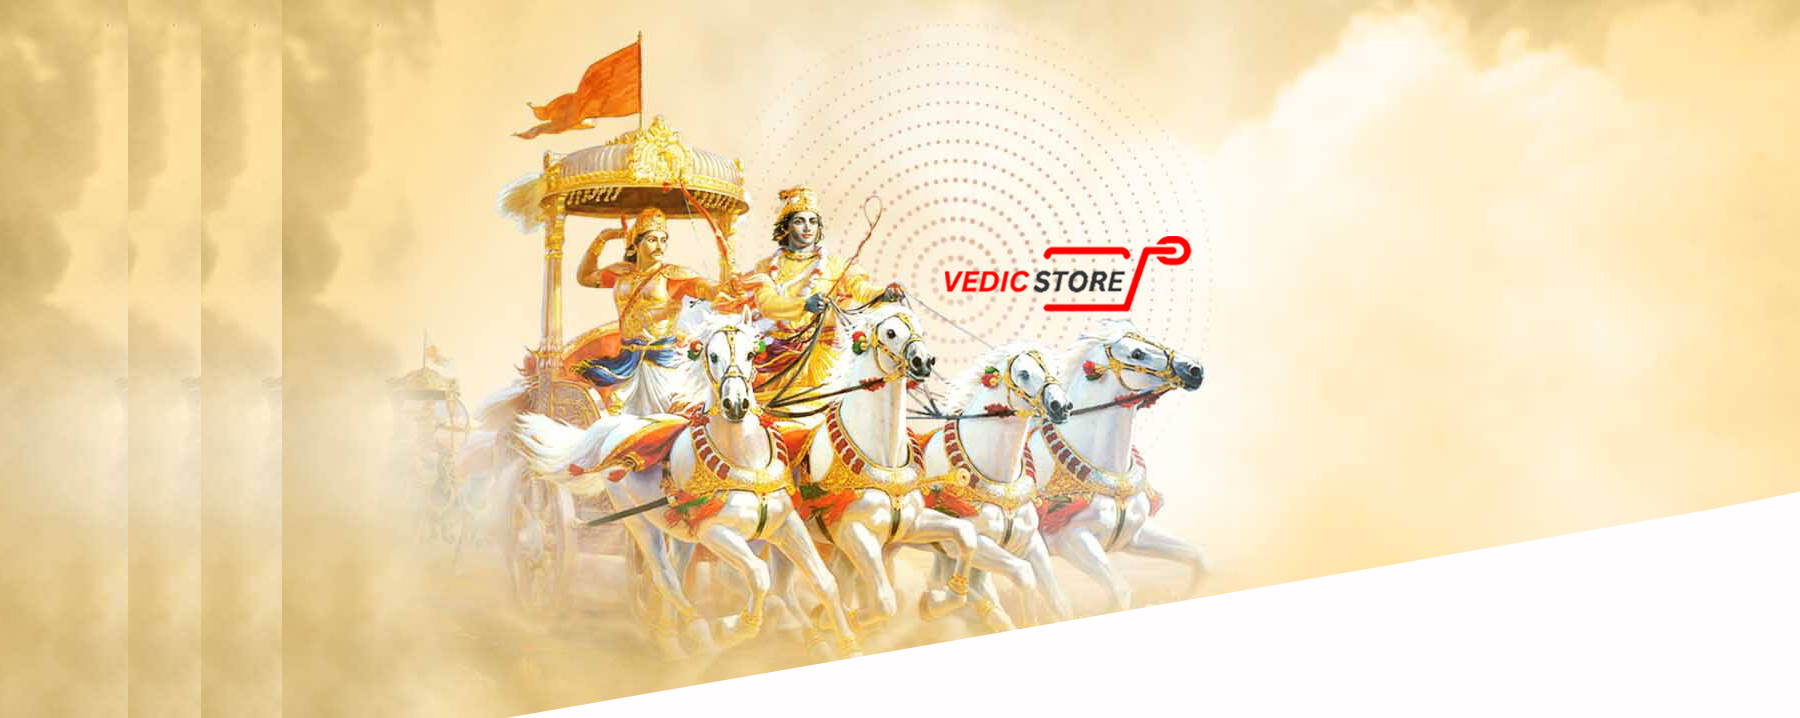
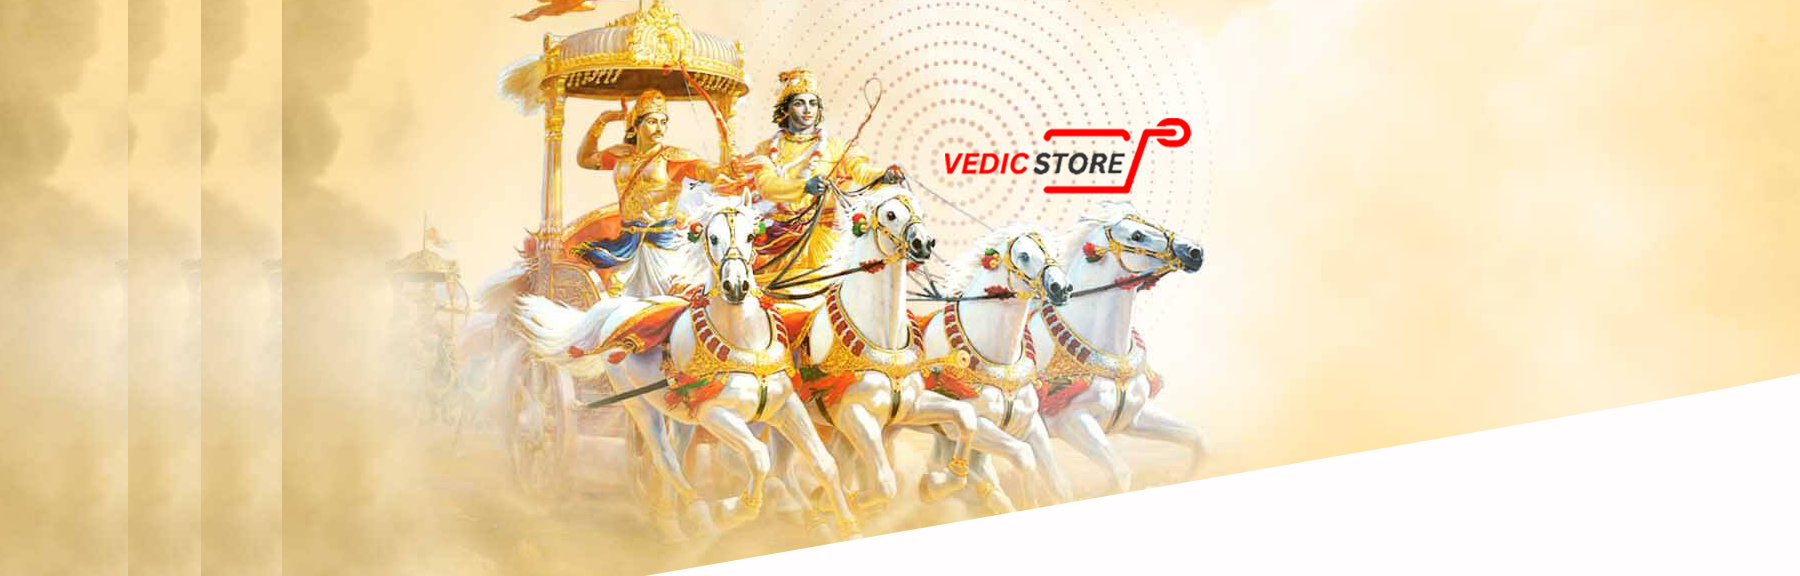
Did changes in navbar styling

diff --git a/client/src/components/layout/Navbar/Navbar.jsx b/client/src/components/layout/Navbar/Navbar.jsx
@@ -29,7 +29,7 @@ export default function Navbar() {
     return (
         <>
             <nav className="navbar">
-                {isAuthenticated && <UserOptions user={user} />}
+                {/* {isAuthenticated && <UserOptions user={user} />} */}
                 <div className="max-width">
                     <div className="logo">
                         <Link to="/"> <img src="./whitelogo.png" className='brandLogo' alt="" /> </Link>
@@ -46,7 +46,9 @@ export default function Navbar() {
                         <li onClick={burger}><Link to="/contact" className="menu-btn">Contact</Link></li>
                         <li onClick={burger}><Link to="/cart" className="menu-btn"><i class="fa-solid fa-cart-shopping"></i> Cart</Link></li>
                         <li onClick={burger}><Link to="/account" className="menu-btn"><i class="fa-solid fa-user"></i> Account</Link></li>
+                        {isAuthenticated && <UserOptions user={user} burger={burger} />}
                     </ul>
+
                     <div className="menu-btn">
                         <i className="fas fa-bars" onClick={burger}> </i>
                     </div>

diff --git a/client/src/components/layout/home/BannerSlider/BannerSlider.jsx b/client/src/components/layout/home/BannerSlider/BannerSlider.jsx
@@ -1,17 +1,20 @@
 import React from 'react'
 import { Carousel } from 'react-responsive-carousel';
 import "react-responsive-carousel/lib/styles/carousel.min.css";
+import './bannerSlider.css'
 
 export default function BannerSlider() {
+
     return (
         <>
             <Carousel
-             axis='horizontal'
-             autoPlay={true}
-            //  stopOnHover={true}
-            infiniteLoop={true}
-            showThumbs={false}
-             swipeable={true}
+                axis='horizontal'
+                autoPlay={true}
+                //  stopOnHover={true}
+                infiniteLoop={true}
+                showThumbs={false}
+                swipeable={true}
+                className='bannerSlider'
             >
                 <div>
                     <img src="./assets/images/home/banner01.jpg" />

diff --git a/client/src/components/layout/header/header.css b/client/src/components/layout/header/header.css
@@ -1,5 +1,5 @@
 .speedDial {
-    position: fixed;
+    position: absolute;
     right: 1vmax;
     top: 5px;
     z-index: 11;
@@ -13,24 +13,14 @@
 
 @media screen and (max-width: 950px) {
     .speedDial {
-        right: 1vmax;
-        top: 5px;
+        right: 40%;
+        top: 20px;
     }
 }
 
-@media screen and (max-width: 690px) {
+@media screen and (max-width: 500px) {
     .speedDial {
-        right: 4vmax;
-        top: 5px;
-    }
-
-    .MuiFab-primary {
-        width: 35px !important;
-        height: 35px !important;
-    }
-
-    .speedDialIcon {
-        width: 35px;
-        height: 35px;
+        right: 37%;
+        top: 20px;
     }
 }

diff --git a/client/src/components/product/products.css b/client/src/components/product/products.css
@@ -1,5 +1,5 @@
 .productsHeading {
-    margin: 2vmax auto;
+    margin: 4vmax auto;
     width: 15vw;
     border-bottom: 1px solid rgba(0, 0, 0, 0.171);
     padding: 2vmax;
@@ -92,16 +92,16 @@
 }
 
 @media screen and (max-width: 750px) {
-    /* .filterBox{
+    .filterBox{
         width: 20vmax;
-        background-color: red;
+        /* background-color: red; */
         border: 20px red;
         position: static;
         margin: auto;
     }
     .page-link{
         font: 300 1.7vmax 'Roboto'
-    } */
+    }
     .productsHeading{
         margin-top: 40px;
     }

diff --git a/client/src/components/layout/Navbar/navbar.css b/client/src/components/layout/Navbar/navbar.css
@@ -120,10 +120,17 @@
         width: 65%;
         left: -100%;
         top: 0;
-        background: red;
+        background: rgb(201, 31, 201);
         text-align: center;
         padding-top: 80px;
         transition: all 0.3s ease;
+    }
+    #user{
+         border: 1px solid black;
+         display: flex;
+         justify-content: center;
+         align-items: center;
+         text-align: center;
     }
 
     .navbar .menu.active {

diff --git a/client/src/components/layout/home/home.css b/client/src/components/layout/home/home.css
@@ -279,6 +279,7 @@
         display: block;
         background-image: url('../../../assets/image/krishnaMd.png');
     }
+    
 }
 
 @media screen and (max-width: 600px) {

diff --git a/client/src/components/layout/home/BannerSlider/bannerSlider.css b/client/src/components/layout/home/BannerSlider/bannerSlider.css
@@ -1,0 +1,10 @@
+.bannerSlider {
+    margin-bottom: 30px;
+}
+
+@media screen and (max-width: 700px) {
+    .bannerSlider {
+        margin-top: 60px;
+    }
+    
+}

diff --git a/client/src/components/Admin/Product/css/newproduct.css b/client/src/components/Admin/Product/css/newproduct.css
@@ -118,6 +118,7 @@
     }
     .createProductForm {
         padding: 5vmax;
+        width: 40vh;
     }
 
     .createProductForm>div>input,
